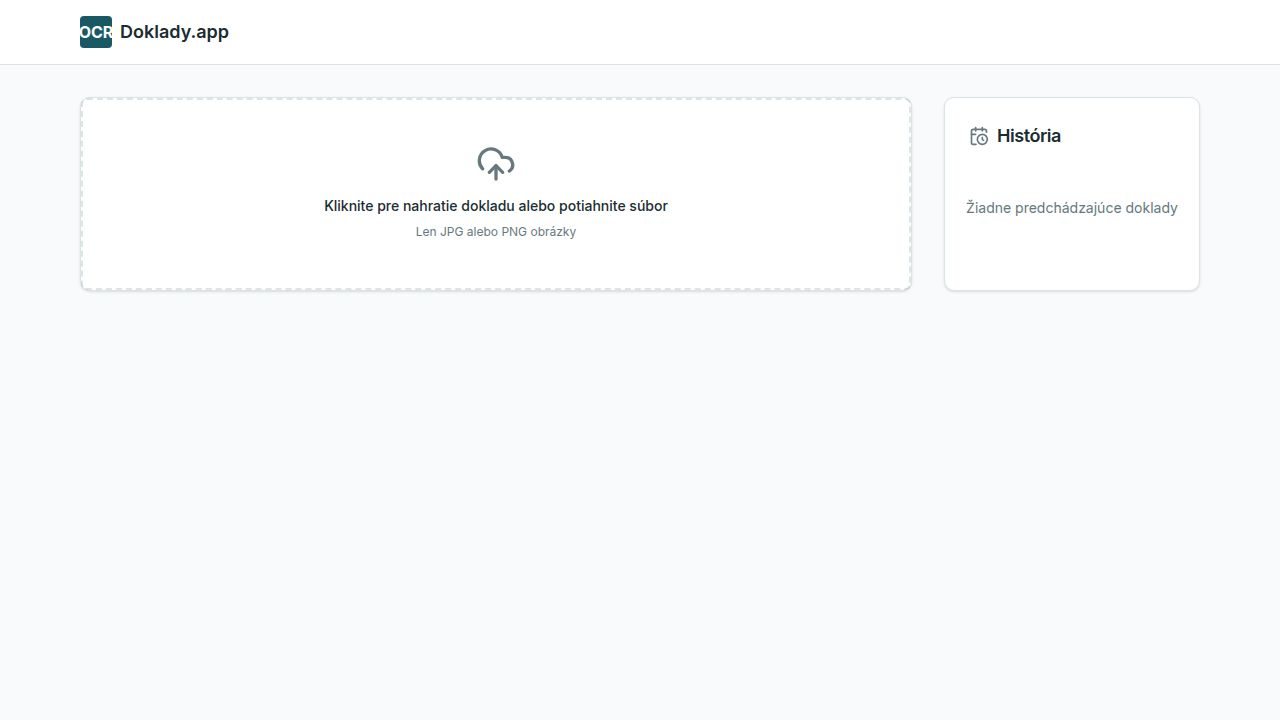
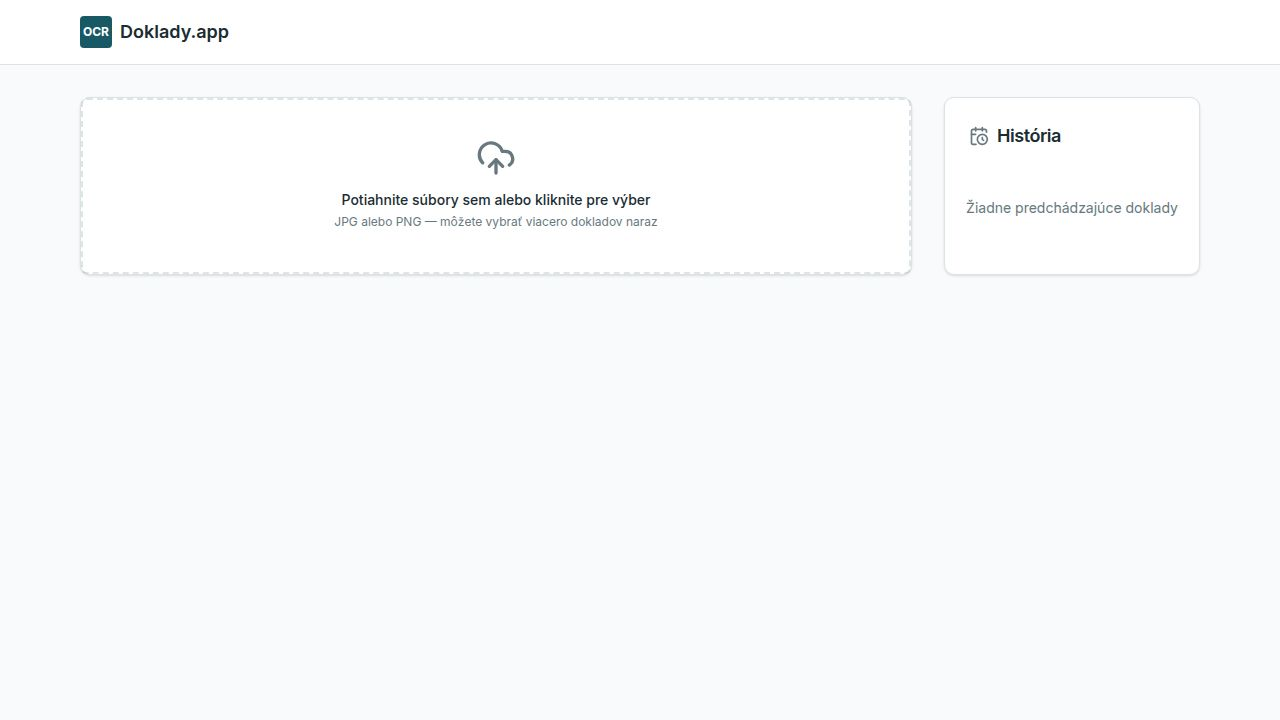
Add a new file for testing zip uploads and update the script to run the application
Add a new Streamlit test file for zip uploads and modify the startup script to set up the environment and run the application.

Replit-Commit-Author: Agent
Replit-Commit-Session-Id: eeb6e43e-f3c9-462d-862e-8f90b8fc8108
Replit-Commit-Checkpoint-Type: full_checkpoint
Replit-Commit-Event-Id: 485c62ac-2fbd-46a2-b879-4b4e05b5fece
Replit-Commit-Screenshot-Url: https://storage.googleapis.com/screenshot-production-us-central1/27aa03b1-c884-4654-8011-3f1671218874/eeb6e43e-f3c9-462d-862e-8f90b8fc8108/ivhVoN6
Replit-Helium-Checkpoint-Created: true

diff --git a/test_zip.py b/test_zip.py
@@ -1,0 +1,13 @@
+import streamlit as st
+
+st.set_page_config(page_title="ZIP TEST")
+st.title("ZIP TEST - toto je nový súbor")
+st.warning("Ak vidíš tento text, beží správny nový Streamlit súbor.")
+
+uploaded_zip = st.file_uploader(
+    "Vyber iba ZIP súbor",
+    type=["zip"]
+)
+
+if uploaded_zip is not None:
+    st.success(f"Nahraný ZIP: {uploaded_zip.name}")